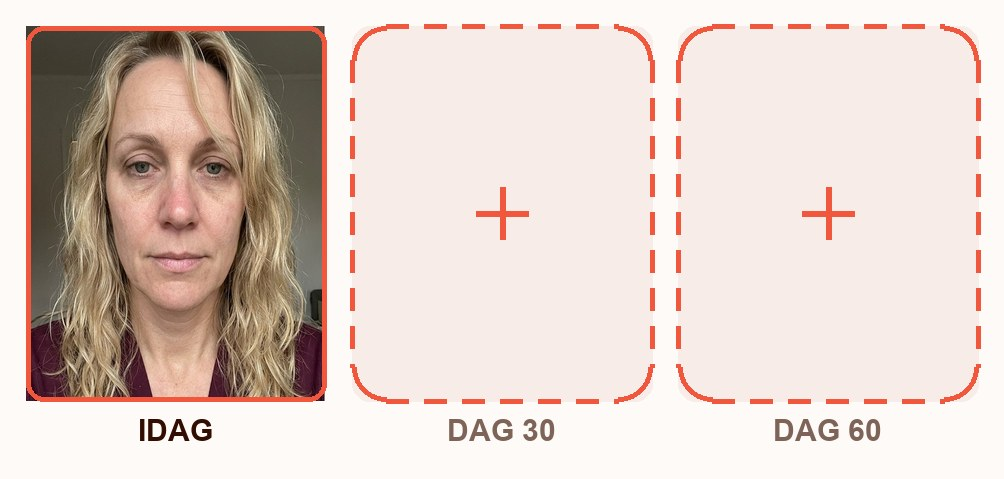
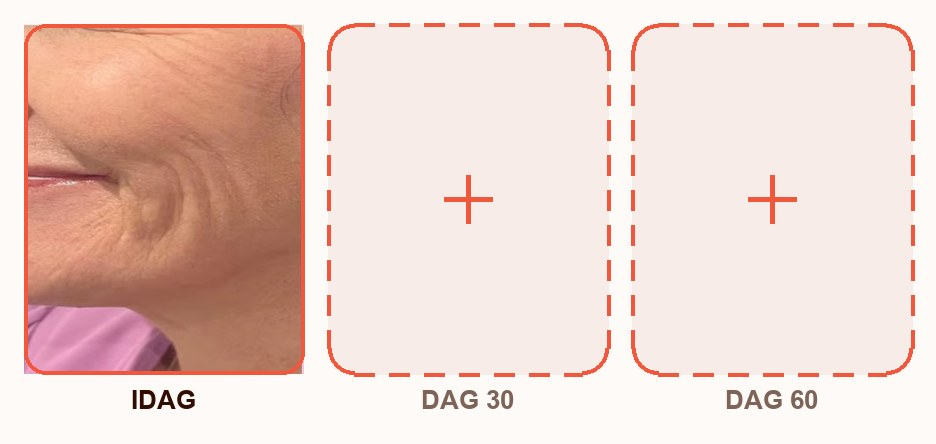
forms: appens egna bilder och Weightless typografi i introkarusellen
William: "Varfor anvander du inte bilder fran appen hydro13 och varfor anvander
du inte samma UI style som weightless". Ratt pa bada.

BILDERNA finns redan i Hydro13-appens assets och jag genererade nya i stallet:
- BeforeAfterSplit.imageset/beforeafter.png ar en RIKTIG kund med "dag 0" och
  "dag 60" redan inbrant i gula etiketter. Min AI-genererade var ett substitut
  for nagot som redan fanns, och den maste dessutom bildtextas "Exempelbild"
  for att inte pastå att den ar en kund. Appens ar det pa riktigt.
- Tidslinjen pa panel 2 byggs nu ur samma bilds before-halva, sa det ar samma
  person genom hela karusellen och samma person kunden sett i appen.

TYPOGRAFIN ar uppmatt i Weightless IntroCarousel.copyBlock, inte gissad:
  rubrik   29 px bold, EN rad som krymper i stallet for att brytas
  brodtext 16 px SEMIBOLD, centrerad
  mellanrum 10 px
Mina varden var 22 px och regular - det ar darfor det last som ett formular
och inte som en onboarding. CSS har inget minimumScaleFactor, sa krympningen
ar tva brytpunkter (25 px under 400, 22 px under 344), matta mot den langsta
rubriken vi har.

Rubrikerna kortade sa de ryms pa en rad, vilket ar vad 29 px krav:
"Se skillnaden med egna ogon" -> "Se skillnaden"
"Vi hjalper dig dokumentera resan" -> "Vi paminner dig"
"Och du far 200 kr for besvaret" -> "200 kr nar du ar klar"

Ett layoutfel som bara syntes i vyn: prickarna lag kvar direkt under
brodtexten trots margin-top:auto. Karusellen ligger i ett info-block, och det
[…]

diff --git a/scripts/seed-progressbild-form.ts b/scripts/seed-progressbild-form.ts
@@ -96,18 +96,18 @@ const progressbild: FormConfig = {
       showWhen: { field: "kund", isEmpty: true },
       html: `<div class="chf-carousel">
 <div class="chf-panel">
-<figure class="chf-shot"><div class="chf-shot-frame"><img src="{{hub}}/images/progressbild/exempel-c.jpg" alt="Tva selfies av samma person med 60 dagars mellanrum" width="1100" height="614" loading="eager"><span class="chf-shot-tag chf-shot-tag--a">DAG 1</span><span class="chf-shot-tag chf-shot-tag--b">DAG 60</span></div><figcaption>Exempelbild.</figcaption></figure>
-<h2 class="chf-slide-title">Se skillnaden med egna ögon</h2>
+<figure class="chf-shot"><div class="chf-shot-frame"><img src="{{hub}}/images/progressbild/app-beforeafter.jpg" alt="Samma kind pa dag 0 och dag 60" width="618" height="618" loading="eager"></div></figure>
+<h2 class="chf-slide-title">Se skillnaden</h2>
 <p class="chf-slide-sub">Spegeln visar ingenting från en dag till nästa. Två bilder bredvid varandra gör det.</p>
 </div>
 <div class="chf-panel">
-<figure class="chf-shot"><div class="chf-shot-frame"><img src="{{hub}}/images/progressbild/tidslinje.jpg" alt="En bild tagen idag och tva tomma rutor for dag 30 och dag 60" width="1004" height="479" loading="eager"></div></figure>
-<h2 class="chf-slide-title">Vi hjälper dig dokumentera resan</h2>
+<figure class="chf-shot"><div class="chf-shot-frame"><img src="{{hub}}/images/progressbild/tidslinje.jpg" alt="En bild tagen idag och tva tomma rutor for dag 30 och dag 60" width="936" height="444" loading="eager"></div></figure>
+<h2 class="chf-slide-title">Vi påminner dig</h2>
 <p class="chf-slide-sub">Du tar ett foto idag. Vid dag 30 och 60 påminner vi dig igen, och visar din förra bild så du vet hur den togs.</p>
 </div>
 <div class="chf-panel">
 <div class="chf-art"><svg viewBox="0 0 24 24" fill="none" stroke="currentColor" stroke-width="1.45" stroke-linecap="round" stroke-linejoin="round"><rect x="2.5" y="8" width="19" height="12.5" rx="2"/><path d="M2.5 12h19M12 8v12.5"/><path d="M12 8s-1.2-4-3.8-4a2.2 2.2 0 0 0 0 4z"/><path d="M12 8s1.2-4 3.8-4a2.2 2.2 0 0 1 0 4z"/></svg></div>
-<h2 class="chf-slide-title">Och du får 200 kr för besväret</h2>
+<h2 class="chf-slide-title">200 kr när du är klar</h2>
 <p class="chf-slide-sub">Presentkortet kommer när alla tre bilderna är inne.</p>
 <div class="chf-reward"><svg viewBox="0 0 170 106" xmlns="http://www.w3.org/2000/svg" role="img" aria-label="Presentkort pa 200 kronor"><defs><linearGradient id="chfg" x1="0" y1="0" x2="1" y2="1"><stop offset="0" stop-color="#ffffff" stop-opacity=".28"/><stop offset=".55" stop-color="#ffffff" stop-opacity="0"/></linearGradient></defs><rect x="1" y="1" width="168" height="104" rx="13" fill="#f0573d"/><rect x="1" y="1" width="168" height="104" rx="13" fill="url(#chfg)"/><g fill="#ffffff" font-family="-apple-system,BlinkMacSystemFont,Segoe UI,Helvetica,Arial,sans-serif"><text x="15" y="27" font-size="7.5" font-weight="700" letter-spacing="1.7" opacity=".9">PRESENTKORT</text><text x="15" y="66" font-size="30" font-weight="800" letter-spacing="-.5">200 kr</text><text x="15" y="88" font-size="8" font-weight="700" letter-spacing="2.6" opacity=".92">ENVANA</text></g><circle cx="146" cy="30" r="13" fill="#ffffff" opacity=".16"/><circle cx="152" cy="46" r="7" fill="#ffffff" opacity=".12"/></svg><div class="chf-reward-txt"><b>Bilderna är dina</b>Vi visar dem aldrig för någon utan att fråga dig först.</div></div>
 </div>

diff --git a/public/forms-embed/v1.js b/public/forms-embed/v1.js
@@ -230,6 +230,20 @@
     ".chf-app .chf-slide-title{font-size:22px;font-weight:700;line-height:1.35;" +
     "color:var(--chf-text);margin:0 0 6px}" +
     ".chf-app .chf-slide-sub{font-size:16px;line-height:1.6;color:var(--chf-muted);margin:0 0 20px}" +
+    // Karusellens typografi ar Weightless egna, uppmatt i IntroCarousel:
+    // rubriken 29 bold pa EN rad som KRYMPER i stallet for att brytas (den
+    // langsta panelrubriken ar en rad), brodtexten 16 SEMIBOLD och centrerad,
+    // 10 px mellan dem. Mina 22/regular last som ett formular.
+    ".chf-app .chf-panel .chf-slide-title{font-size:29px;font-weight:700;line-height:1.18;" +
+    "letter-spacing:-.4px;margin:0 0 10px;white-space:nowrap;overflow:hidden;text-overflow:clip}" +
+    ".chf-app .chf-panel .chf-slide-sub{font-size:16px;font-weight:600;line-height:1.5;margin:0}" +
+    // Krymp rubriken pa smal skarm i stallet for att bryta den. CSS har inget
+    // minimumScaleFactor, sa taket satts per brytpunkt - uppmatt mot den
+    // langsta rubriken vi har.
+    "@media (max-width:400px){.chf-app .chf-panel .chf-slide-title{font-size:25px}}" +
+    "@media (max-width:344px){.chf-app .chf-panel .chf-slide-title{font-size:22px}}" +
+    // Luften ner mot chromet. Weightless: padding-bottom 96.
+    ".chf-app .chf-panel>*:last-child{margin-bottom:0}" +
     ".chf-app .chf-title{font-size:22px;font-weight:700;line-height:1.35;text-align:center;margin:0 0 6px}" +
     ".chf-app .chf-info{font-size:16px;line-height:1.6;color:var(--chf-muted)}" +
     ".chf-app .chf-info h2{color:var(--chf-text)}" +
@@ -287,6 +301,11 @@
     // Panelerna byter INTE plats i sidled, de korsar over PA PLATS. Det ar
     // skillnaden mot en vanlig slider, och det ar det som gor att prickarna
     // och knappen kan sta stilla medan innehallet vaxlar.
+    // Karusellen ligger i ett info-block, och det blocket ar en vanlig div.
+    // Utan att GORA den till flex har karusellens flex:1 ingenting att vaxa
+    // i, och da kan prickarnas margin-top:auto inte trycka dem ner till
+    // knappen. Uppmatt: de lag kvar direkt under brodtexten.
+    ".chf-app .chf-info:has(.chf-carousel){display:flex;flex-direction:column;flex:1;margin:0}" +
     ".chf-app .chf-carousel{position:relative;flex:1;display:flex;flex-direction:column}" +
     ".chf-app .chf-panel{display:none;flex-direction:column;flex:1}" +
     // flex:0 0 auto och inte flex:1. Vaxte panelen tog den allt utrymme och
@@ -298,7 +317,7 @@
     // Prickarna hor till CHROMET, inte till texten. I forlagan star de
     // tillsammans med knappen i botten och rors inte nar panelen vaxlar;
     // klistrade under brodtexten hoppar de i stallet med varje panels hojd.
-    ".chf-app .chf-dots{display:flex;gap:7px;justify-content:center;margin-top:auto;padding:18px 0 2px}" +
+    ".chf-app .chf-dots{display:flex;gap:7px;justify-content:center;margin-top:auto;padding:18px 0 20px}" +
     ".chf-app .chf-dot{width:7px;height:7px;border-radius:999px;background:rgba(50,13,1,.16);" +
     "transition:background .2s,width .2s}" +
     ".chf-app .chf-dot-on{width:22px;background:var(--chf-brand)}" +
